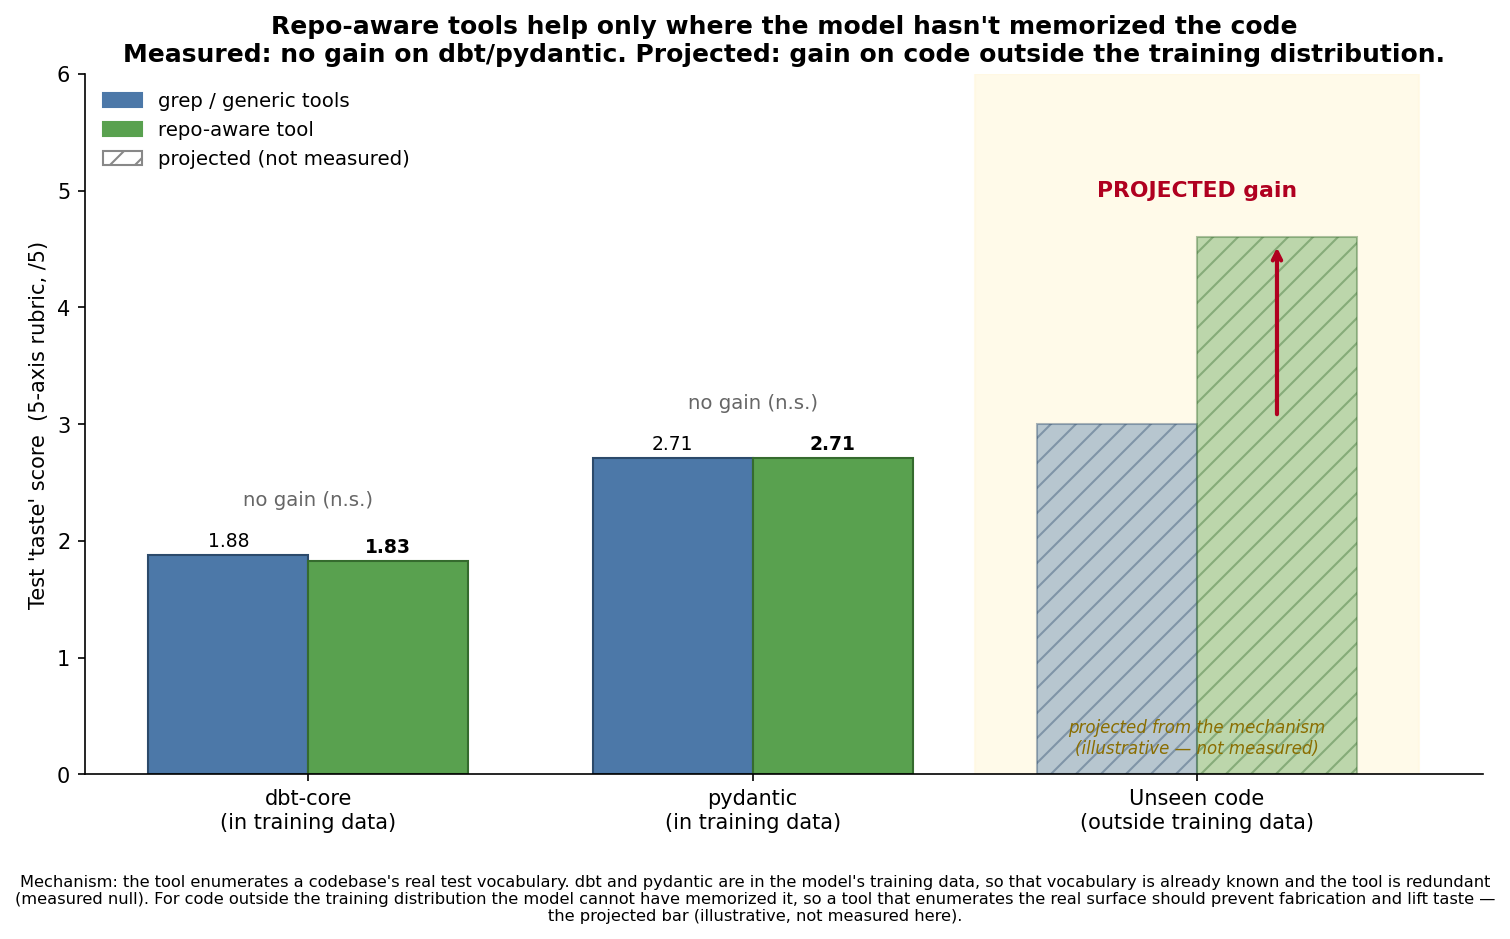
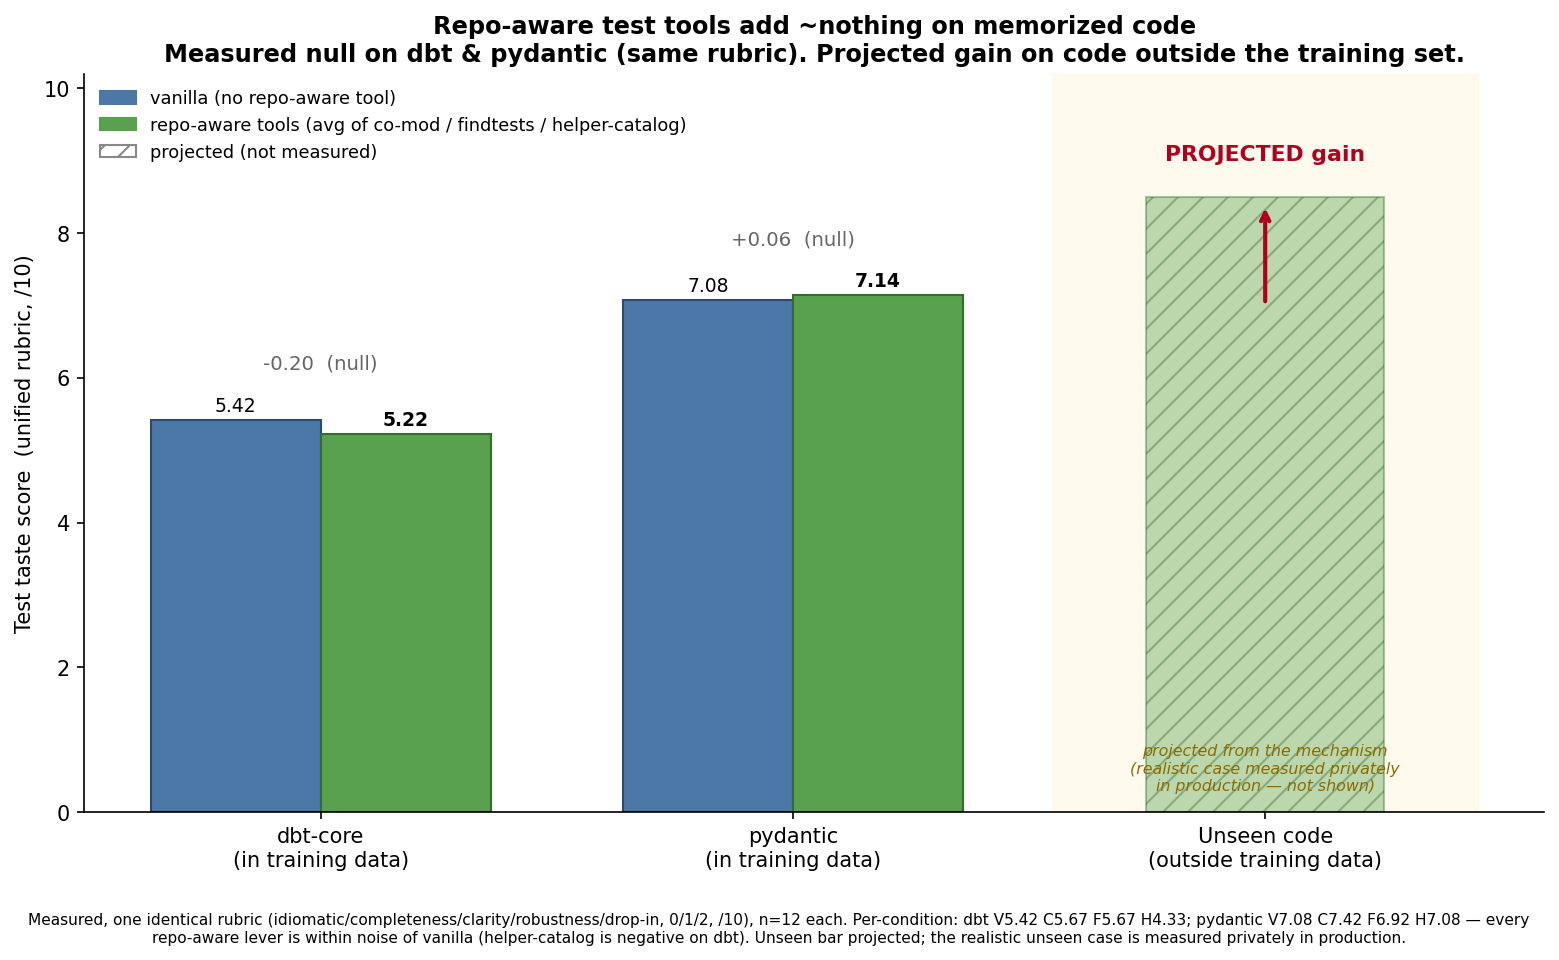
Taste on one unified rubric; real measured open-source nulls
- Switch taste_rubric.py to the 5-axis production rubric (idiomatic/
  completeness/clarity/robustness/drop-in, 0/1/2, /10) so every codebase is
  scored by one identical instrument.
- Rebuild the by-codebase figure with REAL unified-rubric numbers (dbt &
  pydantic null across V/C/F/H, n=12); unseen bar projected.
- README: honest taste-eval evolution (indistinguishability -> unified rubric).

Changed region(s): [[0.0, 0.0, 0.996, 0.9883], [0.1868, 0.3706, 0.249, 0.4015]]

diff --git a/src/atw/metrics/taste_rubric.py b/src/atw/metrics/taste_rubric.py
@@ -1,9 +1,9 @@
-"""A 5-axis taste rubric for test quality.
+"""5-axis taste rubric for test quality (idiomatic / completeness / clarity /
+robustness / drop-in readiness), each axis 0/1/2, per-draft total 0-10.
 
-Reference-free, per-draft, blind grading on the axes that separate good tests
-from bad ones — more granular than a single pairwise "which is better?". Each
-axis 0 / 0.5 / 1; per-draft total 0-5. Run per arm/condition to see WHERE each
-wins (e.g. A3 may win drop_in_ready but lose helper_fit).
+Reference-free, per-draft, blind grading. This is the SAME instrument across
+every codebase (open-source and obfuscated), so taste scores are directly
+comparable on one ruler — which is what makes the cross-codebase claim valid.
 """
 
 from __future__ import annotations
@@ -11,11 +11,11 @@ from __future__ import annotations
 from atw.metrics.behavioral import _claude_json, _extract_json
 
 JUDGE_MODEL = "claude-sonnet-4-6"
-AXES = ["helper_fit", "no_handwaving", "low_noise", "conciseness", "drop_in_ready"]
+AXES = ["idiomatic_match", "completeness", "clarity", "robustness", "drop_in_readiness"]
 
 TASTE_PROMPT = """You are a senior engineer reviewing a pytest test draft written \
-for the code change below. Grade ONLY the test, on five axes, each scored 0, 0.5, \
-or 1. Judge blind — do not assume it is AI- or human-written.
+for the code change below. Grade ONLY the test, on five axes, each scored 0, 1, \
+or 2. Judge blind — do not assume it is AI- or human-written.
 
 <change>
 {diff}
@@ -25,20 +25,21 @@ or 1. Judge blind — do not assume it is AI- or human-written.
 {test}
 </test>
 
-Axes:
-- helper_fit: the fixtures/helpers it uses are real AND the right ones for THIS \
-scenario (1); real but a suboptimal choice (0.5); wrong or missing (0).
-- no_handwaving: no TODO/placeholder punts on the hard parts (1); minor (0.5); \
-punts on the substance (0).
-- low_noise: no leftover setUp/tearDown boilerplate, redundant assertions, or \
-unused imports (1); some (0.5); noisy (0).
-- conciseness: tight signal-to-noise, no repetition (1); acceptable (0.5); \
-bloated (0).
-- drop_in_ready: would run and merge essentially as-is (1); needs a minor \
-reviewer pass (0.5); needs real rework (0).
+Axes (0/1/2):
+- idiomatic_match: uses this repo's conventions — the right helpers, fixtures, \
+decorators and patterns, matching neighboring tests (2); minor variance / a \
+suboptimal-but-real choice (1); wrong, non-idiomatic, or invented (0).
+- completeness: verifies the change including secondary assertions and effects \
+(2); skips a secondary assertion (1); misses the substance of the change (0).
+- clarity: clear intent, well-structured, readable (2); acceptable (1); \
+confusing or disorganized (0).
+- robustness: probes the implied edge cases of the change (2); under-probes some \
+(1); happy-path only (0).
+- drop_in_readiness: would merge as-is, no TODOs/placeholders (2); minor TODOs or \
+platform-specific values to fill in (1); needs real rework (0).
 
-Respond with ONLY JSON: {{"helper_fit":0/0.5/1, "no_handwaving":0/0.5/1, \
-"low_noise":0/0.5/1, "conciseness":0/0.5/1, "drop_in_ready":0/0.5/1, "reason":"<one line>"}}"""
+Respond with ONLY JSON: {{"idiomatic_match":0/1/2, "completeness":0/1/2, \
+"clarity":0/1/2, "robustness":0/1/2, "drop_in_readiness":0/1/2, "reason":"<one line>"}}"""
 
 
 def taste_score(diff: str, test: str, model: str = JUDGE_MODEL) -> dict:

diff --git a/README.md b/README.md
@@ -79,9 +79,12 @@ This is a falsifiable hypothesis with a concrete prediction:
 
 ![Repo-aware tool taste advantage by codebase: measured null on dbt/pydantic, projected gain on unseen code](reports/figures/taste-by-codebase.png)
 
-*The two open-source bars are **measured** in this study (no gain). The
-unseen-code bar is **projected from the mechanism** — illustrative, not measured
-here — and is exactly the regime the prediction targets.*
+*Measured on **one identical taste rubric** (idiomatic / completeness / clarity /
+robustness / drop-in, 0/1/2, /10; n=12 each). Every repo-aware lever — co-mod (C),
+findtests (F), helper-catalog (H) — lands within noise of vanilla on both repos
+(helper-catalog is actually negative on dbt). The unseen-code bar is **projected
+from the mechanism**, not measured here; the realistic unseen case is measured
+privately in production.*
 
 The practical implication for the field: **public benchmarks (SWE-bench and
 friends) likely *understate* the value of repo-aware tooling, because the model
@@ -96,13 +99,21 @@ training) is the natural follow-up.
 
 The result matters less than how it was obtained. Three things make it credible:
 
-### 1. Human-free "taste" evaluation
-Rather than recruiting engineers to rate test *taste*, the repository's own
-**merged** tests serve as revealed human acceptance (git history as the panel).
-We measure **indistinguishability**: a blind judge tries to tell the generated
-test from the real merged one. A low distinguish-rate = native taste. This both
-scores nativeness and **self-validates the judge** (it must recover real merged
-tests over generic ones) — with large n and full reproducibility, no human labels.
+### 1. Human-free taste evaluation — and how it evolved
+No human raters. **First approach:** use the repository's own **merged** tests as
+a revealed-acceptance panel (git history) and measure **indistinguishability** — a
+blind judge tries to tell the generated test from the real merged one.
+**Why we switched:** indistinguishability needs each repo's merged ground truth
+and isn't comparable *across* codebases. To put every codebase on **one ruler**,
+we adopted a **frozen 5-axis taste rubric** — *idiomatic match, completeness,
+clarity, robustness, drop-in readiness*, each scored 0/1/2 (max 10) — graded by
+**blind LLM judge agents**. The same instrument runs on every codebase, so taste
+scores are directly comparable. A companion **structural rubric** scores
+correctness (does the test reference real symbols and resolve?). Both rubrics are
+AI-designed, shipped in this repo
+([`taste_rubric.py`](src/atw/metrics/taste_rubric.py),
+[`resolvability.py`](src/atw/metrics/resolvability.py)), and fully reproducible —
+no human labels.
 
 ### 2. Most of the early "signal" was apparatus error — and was caught
 The comparison only became trustworthy after fixing silent failures, each found
